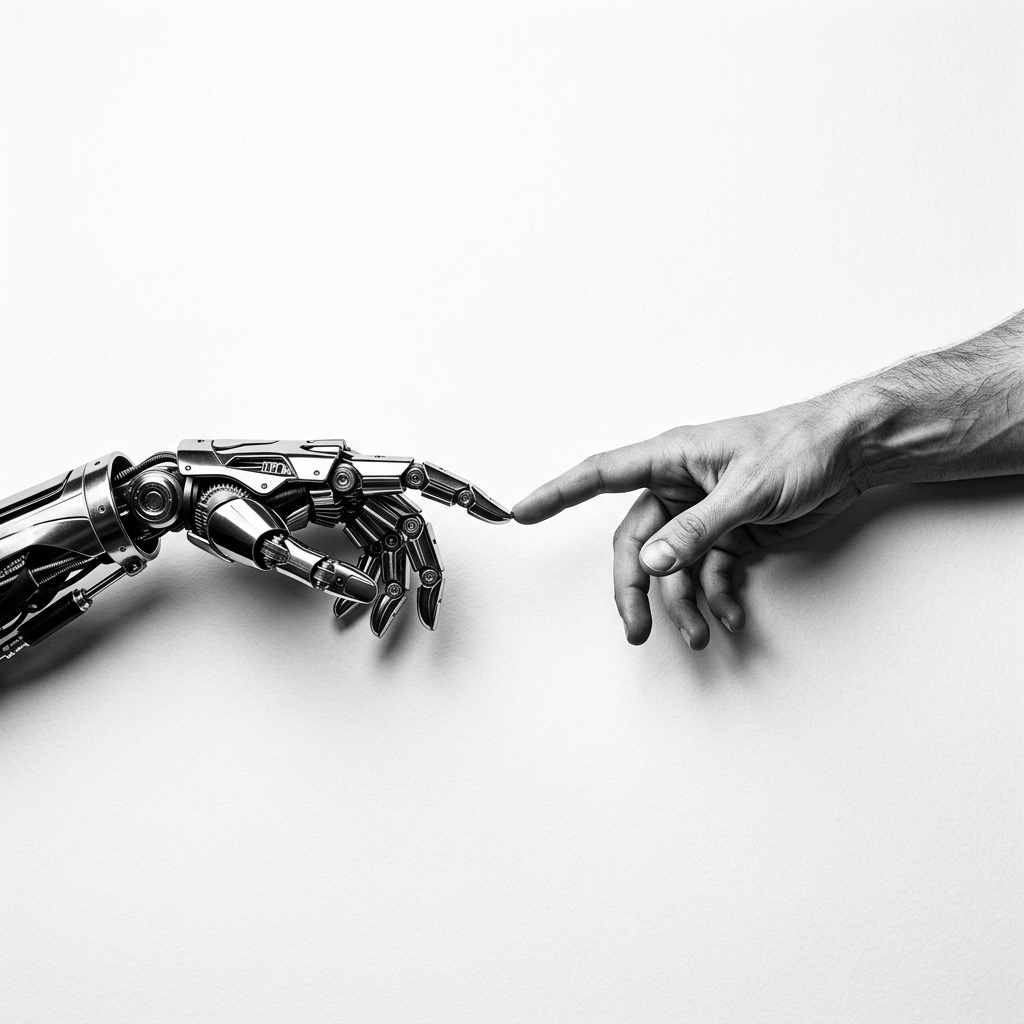
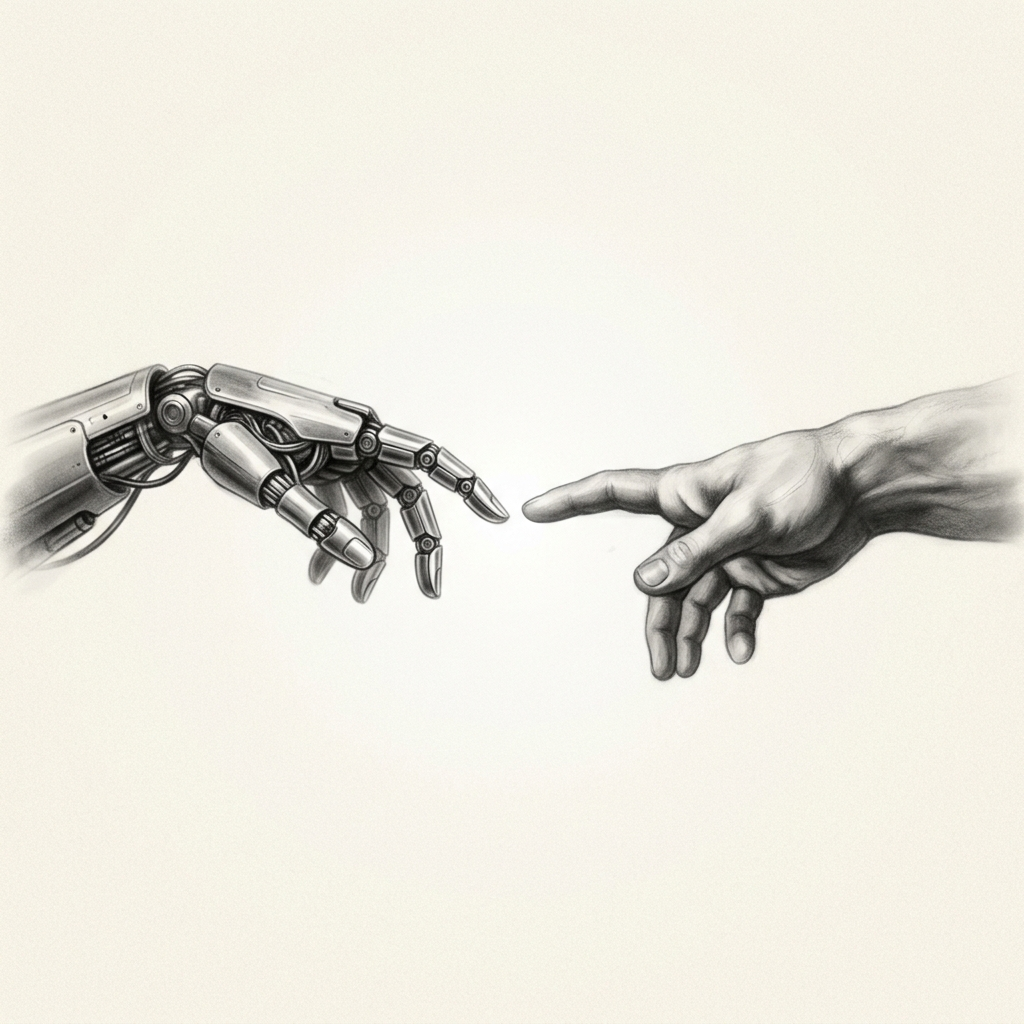
Update_blurred_hands_background_artwork

Changed region(s): [[0.0, 0.2812, 1.0, 0.75], [0.9375, 0.9375, 1.0, 1.0]]

diff --git a/src/components/Hero.jsx b/src/components/Hero.jsx
@@ -22,11 +22,11 @@ export default function Hero({ onOpenModal, onOpenDemo }) {
       <div className="absolute top-1/3 left-1/2 -translate-x-1/2 -translate-y-1/2 w-[600px] h-[600px] bg-[#EBE7DF]/50 rounded-full blur-3xl -z-10 pointer-events-none" />
 
       {/* Blurred Creation of Adam Hands Background Artwork Layer */}
-      <div className="absolute inset-0 top-12 flex items-center justify-center pointer-events-none -z-10 overflow-hidden px-4">
+      <div className="absolute inset-0 flex items-center justify-center pointer-events-none -z-10 overflow-hidden px-4">
         <img
           src="/bg-artwork.png"
           alt="Hands Touching Creation of Adam Background"
-          className="w-full max-w-5xl h-auto max-h-[500px] object-contain filter blur-[6px] md:blur-[10px] opacity-45 grayscale contrast-125 scale-110 select-none"
+          className="w-full max-w-6xl h-auto max-h-[600px] object-contain opacity-60 grayscale contrast-110 scale-105 select-none"
         />
       </div>
 
